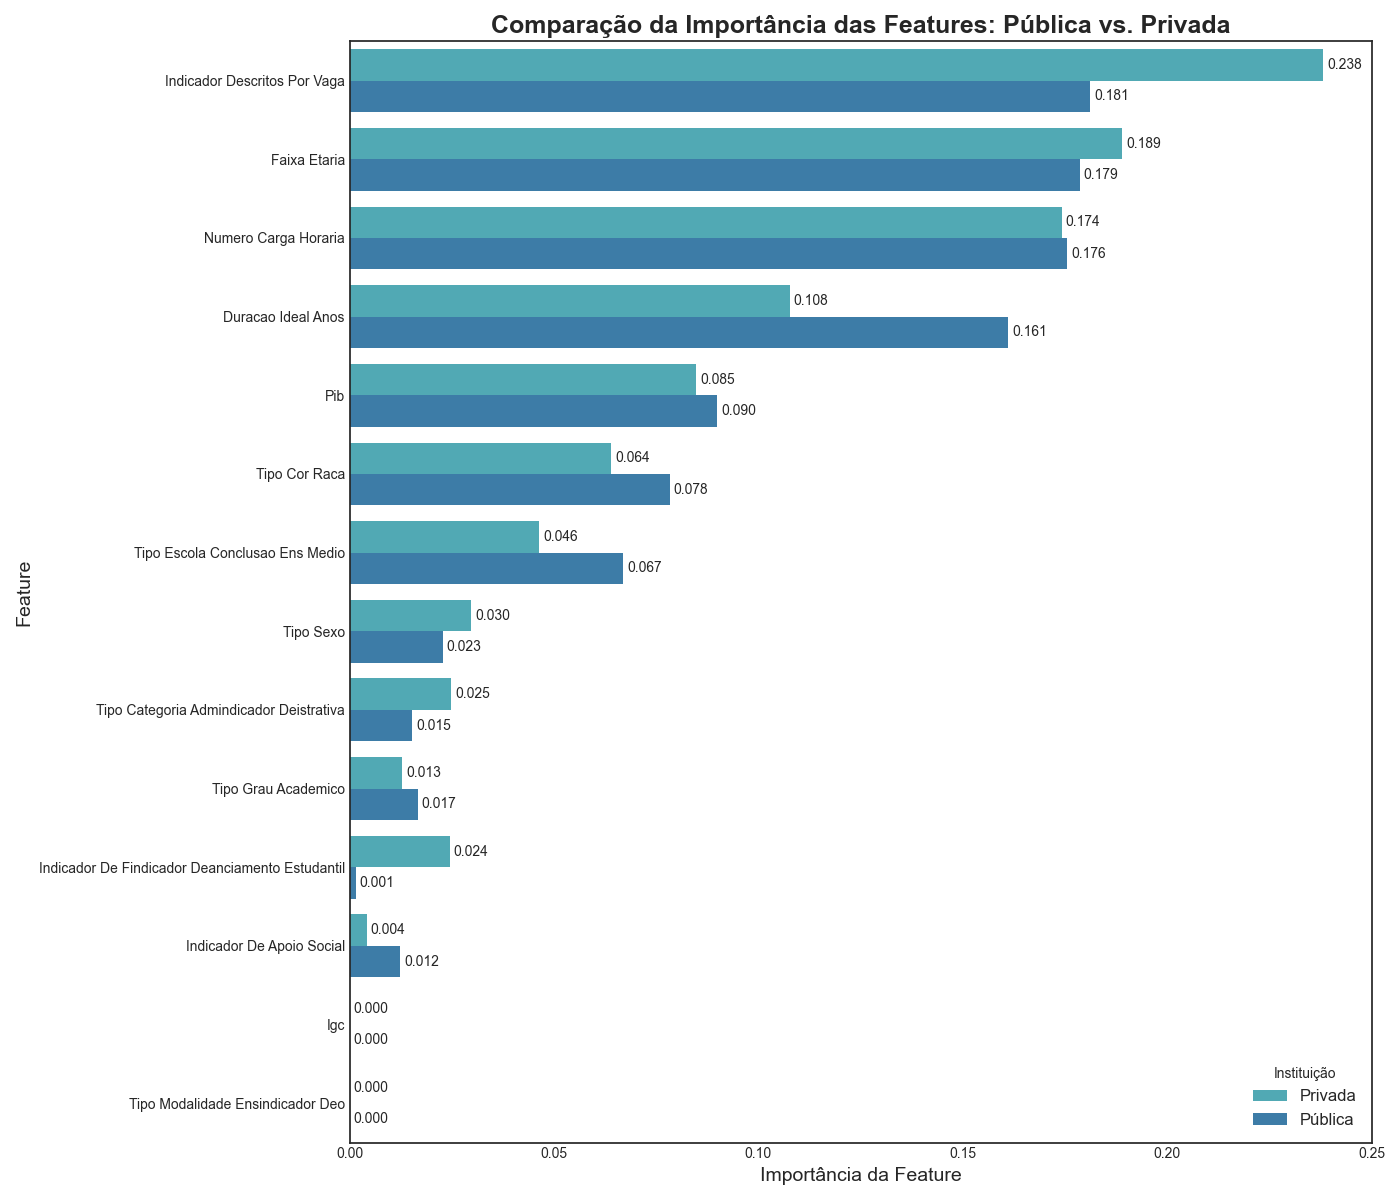
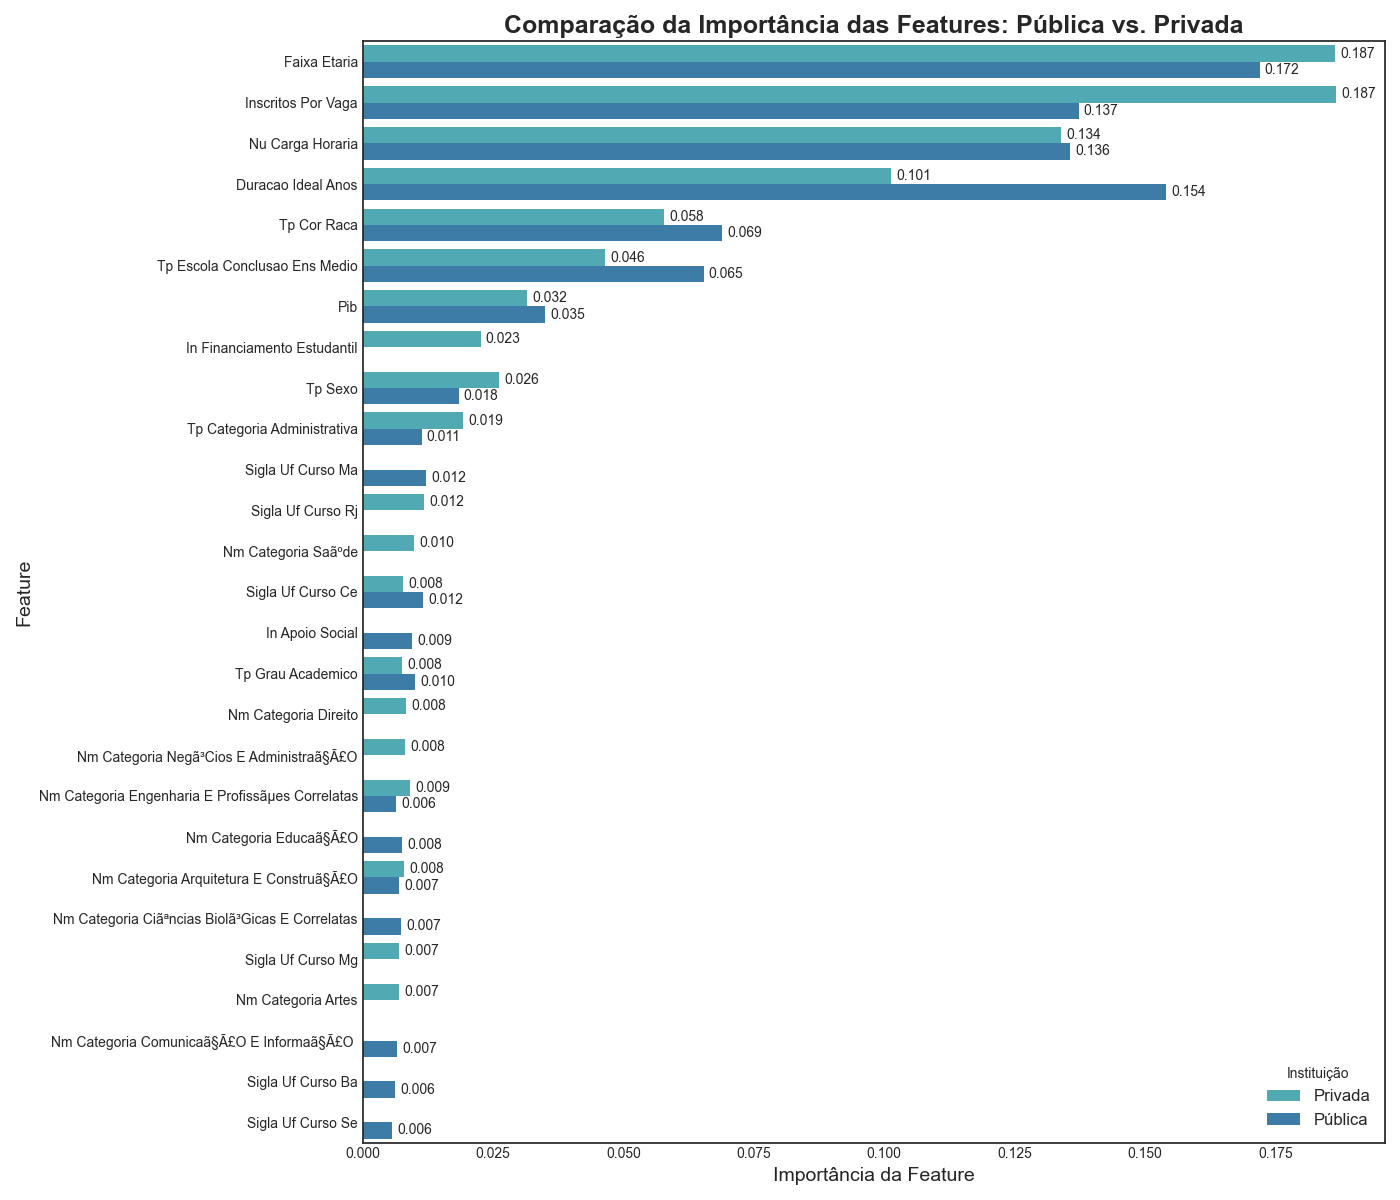
tira os dados de antes de 2014 dos alunos pls

diff --git a/src/main.py b/src/main.py
@@ -115,7 +115,6 @@ def main():
     run_ideal_time_analysis(integrated_df.copy(), FIGURES_PATH)
     logger.info("Análise Comparativa concluída.")
 
-    # ... (O restante do seu código para treinamento de modelos)
     metrics = {}
     datasets_graficos = {}
     
@@ -131,7 +130,7 @@ def main():
             
         print(f"\n--- Processando Dados para Instituições do Tipo: {name.upper()} ---")
 
-        # 4. Pré-processamento (agora com o preprocessor.py corrigido)
+        # 4. Pré-processamento 
         X_train, X_test, y_train, y_test, preprocessor_pipeline = preprocess_data(df,target_column='taxa_integralizacao')
         save_preprocessor(preprocessor_pipeline, os.path.join(MODELS_PATH, f'preprocessor_{name}.joblib'))
 

diff --git a/src/analysis/regression_analysis.py b/src/analysis/regression_analysis.py
@@ -67,9 +67,6 @@ def plot_combined_feature_importance(df_publica, df_privada, report_path):
         combined_df = pd.concat([df_publica, df_privada])
 
         # --- MODIFICAÇÃO: Formatar nomes das features ---
-        combined_df['feature'] = combined_df['feature'].str.replace('in', 'Indicador de')
-        combined_df['feature'] = combined_df['feature'].str.replace('nu', 'Numero')
-        combined_df['feature'] = combined_df['feature'].str.replace('tp', 'tipo')
         combined_df['feature'] = combined_df['feature'].str.replace('_', ' ').str.title()
         
         # Ordenar as features pela importância média para uma visualização mais limpa

diff --git a/src/data_processing/data_integration.py b/src/data_processing/data_integration.py
@@ -132,7 +132,7 @@ def load_and_integrate_data(data_path, nivel_especifico_categoria:bool = True):
     
     final_df_dask['taxa_integralizacao'] = final_df_dask['tempo_permanencia'] / final_df_dask['duracao_ideal_anos']
 
-    cols_to_drop = ['tempo_permanencia', 'nu_ano_ingresso', 'tp_situacao', 'co_ies', 'co_curso', 'igc_fx']
+    cols_to_drop = ['tempo_permanencia', 'nu_ano_ingresso', 'tp_situacao', 'co_ies', 'co_curso', 'igc_fx','co_cine_rotulo']
     final_df_dask = final_df_dask.drop(columns=[col for col in cols_to_drop if col in final_df_dask.columns])
 
     print("--- Computando o DataFrame final... ---")
